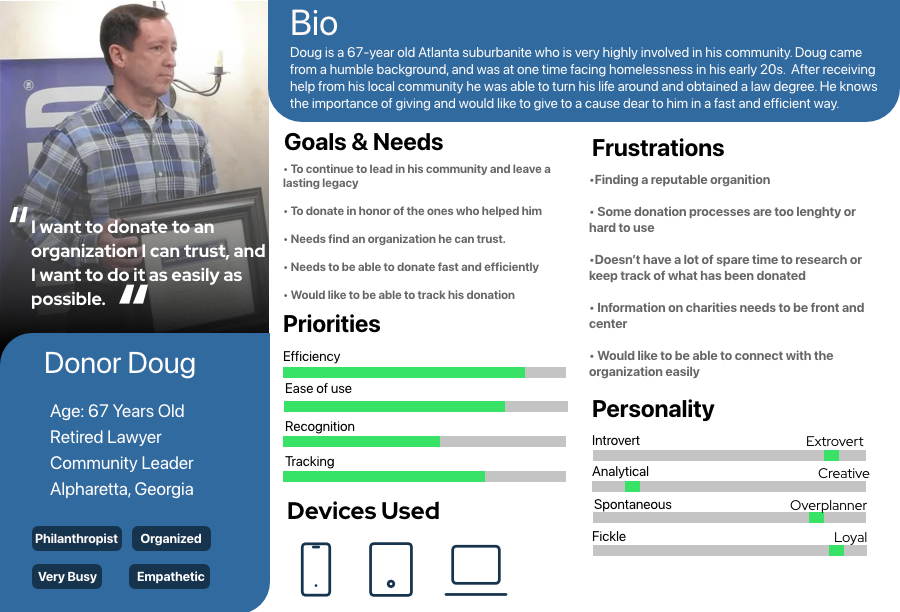
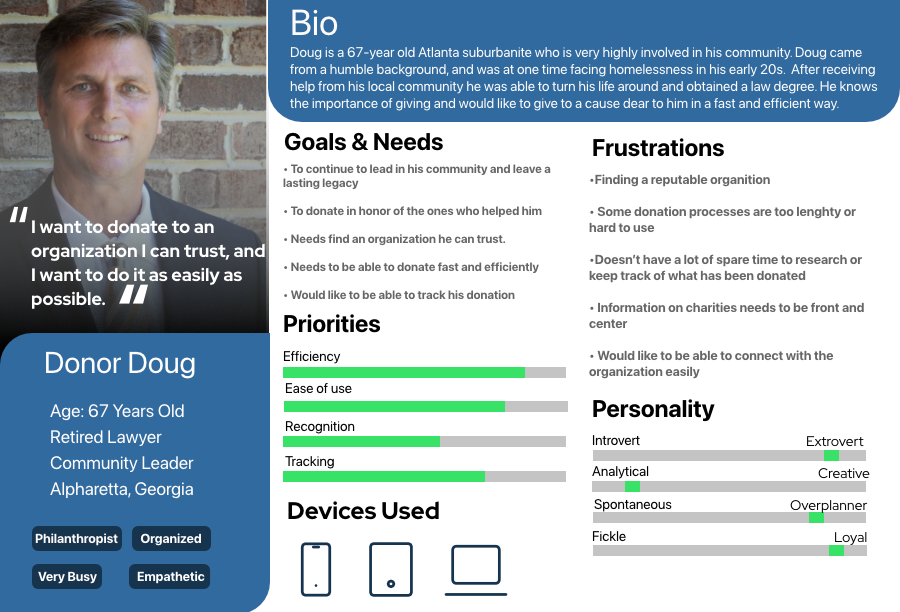
Personas
I updated the proto-personas section and the persona used.

Changed region(s): [[0.0, 0.0, 0.3111, 0.5278]]

diff --git a/case_studies.html b/case_studies.html
@@ -52,7 +52,7 @@
 <!--introductary section giving a basic overview of my ux experience-->
    <section class="Introduction"> 
     <div class="w3-container w3-content w3-center w3-padding-64 w3-text-dark-blue">
-      <h1 class="w3-wide w3-xxxlarge">Case Studies</h1>
+      <h1 class="w3-wide w3-text-blue w3-xxxlarge">Case Studies</h1>
       <p class="w3-opacity"><i>UX Writing | Research | Testing</i></p>
       <p class="w3-justify">This section of my portfolio is dedicated to the UX projects I've been apart of. 
         The below case studies highlight my experience with information architecture and structuring content. </p>
@@ -67,7 +67,7 @@
   <div class="w3-text-dark-blue w3-off-white" id="homeStretch">
     <!--Introducing the project - the problem statement and my role-->
     <div class="w3-container w3-content w3-padding">
-    <h1>HomeStretch - Non-profit Redesign</h1>
+    <h1 class="w3-text-blue">HomeStretch - Non-profit Redesign</h1>
     <p class="w3-container w3-content w3-justify w3-padding">HomeStretch is an organization that provides economic relief to families in financial distress. 
       They initially developed its site as a catch-all solution for every possible thing any user may need.</p>
     <p class="w3-container w3-content w3-justify w3-padding"> I joined an agile UX design team as a content strategist and information architecture to redesign the non-profit's website.</p>
@@ -77,8 +77,15 @@
     <img style="width: 100%;" src="assets/CaseStudies/homeStretch/homeStretch-hero.png">
     <!--Start of Definition-->
     <div class="w3-container w3-content w3-padding">
-      <h2>Definition</h2>
-      <hr>
+      <h2 class="w3-text-blue">Definition Stage</h2>
+      <p class="w3-xlarge w3-text-blue">The Results</p>
+      <ul>
+        <li>Established scope of work</li>
+        <li>Drafted proto-personas</li>
+        <li>Defined a value propsition, problem statement, and UX Hypothesis</li>
+      </ul>
+     <hr>
+
        <!--<div class="w3-panel w3-leftbar w3-white w3-xlarge w3-serif w3-text-dark-blue dropShadow w3-padding 23 w3-margin">
         <p>"85% of funding comes from individual donors and civic/faith organizations. The rest is from corporate donations and a few foundation grants. 
           Over 2020, we've had trouble gaining in person donations through our fundraising events, so this year more and more donations are coming through our website"</p>
@@ -87,7 +94,7 @@
       <br>--> 
    
       <div class="w3-row w3-padding">
-        
+        <p class="w3-xlarge w3-text-blue">The Process</p>
         <div class="w3-half w3-container">
           <div class="w3-row">
             <div class="w3-container w3-white dropShadow w3-text-blue">
@@ -103,49 +110,67 @@
             </div>
           </div>
         </div>
-
-      </div> 
+      </div>
+      <br>
+      <!--Proto-personas-->
+      <div class="w3-container w3-content w3-margin">
+        <p>The team devleoped proto-personas based on exsiting research collected by HomeStreach. The users where broken into three personas: 
+          the donor persona, The recipient persona persona, and the volunteer persona. 
+        </p>   
+      </div>
       <div class="w3-row w3-margin">
          <!--Rebbeca-->
         <div class="w3-third w3-container">
           <div class="w3-row">
-            <h3>Rebbeca</h3>
             <div class="w3-container">
-              <img class="w3-image w3-round w3-mobile" width="600" height="600" src="assets/CaseStudies/homeStretch/recipientRita.jpg">
+              <h3>Rita the recipient</h3>
+              <img class="w3-image w3-mobile personaImages" width="800" height="800" src="assets/CaseStudies/homeStretch/recipientRita.png">
+              <p class="w3-center"><i>"I would love to spend more time with my kids in a safe home."</i></p>
             </div>
           </div>
         </div>
         <!--Doug-->
         <div class="w3-third w3-container">
           <div class="w3-row">
-            <h3>Doug the donor</h3>
             <div class="w3-container">
-              <img class="w3-image w3-round w3-mobile" width="600" height="600" src="assets/CaseStudies/homeStretch/donorDoug.png">
+              <h3>Doug the donor</h3>
+              <img class="w3-image w3-mobile personaImages" width="800" height="800" src="assets/CaseStudies/homeStretch/donorDoug.png">
+              <p class="w3-center"><i>"I want to want to give back in a meaningful way."</i></p>
             </div>
           </div>
         </div>
         <!--Valerie-->
         <div class="w3-third w3-container">
           <div class="w3-row">
-            <h3>Valerie the volunteer</h3>
             <div class="w3-container">
-              <img class="w3-image w3-round w3-mobile" width="600" height="600" src="assets/CaseStudies/homeStretch/volunteerValerie.jpg">
+              <h3>Valerie the volunteer</h3>
+              <img class="w3-image w3-mobile personaImages" width="800" height="800" src="assets/CaseStudies/homeStretch/volunteerValerie.png">
+              <p class="w3-center"><i>"I want to be the change in my community."</i></p>
             </div>
           </div>
         </div>
         
       </div> 
 
-      <br>
+      <hr>
+      <p class="w3-xlarge w3-text-blue">The Nitty Gritty</p>
       <p>You can read more on the team's outcome from this phase straight from our google slide deck by follow the button below.</p>
       <!--Link to Slides-->
       <a href="https://docs.google.com/presentation/d/e/2PACX-1vSOJb8vQbNYCUe0q9QdHlHxIieK5KEJZpT7-wQh6IQdGMnzgS2qxkUijbnaRu1JiFUiT4FqwFz-xhk4/pub?start=false&loop=false&delayms=3000" target="_blank"><button class="w3-btn">View The Slides</button></a>
     </div>
     <!--End of Definition-->
-
+    <hr>
     <!--Start of Research-->
     <div class="w3-container w3-content w3-padding">
       <h2>Research</h2>
+      <p class="w3-xlarge w3-text-blue">The Results</p>
+      <ul>
+        <li></li>
+        <li></li>
+        <li></li>
+      </ul>
+     <hr>
+
       <p class="w3-container w3-content w3-justify w3-padding">Conducting initial user research, the design team uncovered three different personas. After speaking with key stakeholders, the team took the direction to optimize the site for one of the three personas - the donor. </p>
       <img class="w3-container w3-image w3-margin" src="assets/CaseStudies/homeStretch/Persona.png" alt="Donor User Persona">
       <br>

diff --git a/css/Portfolio.css b/css/Portfolio.css
@@ -32,6 +32,12 @@
   box-shadow: 10px 10px #0d1163;
 }
 
+/* Making proto-persona images circular*/
+.personaImages{
+  border-radius: 50%;
+}
+
+
 /* Turn off parallax scrolling for tablets and phones */
 @media only screen and (max-device-width: 1600px) {
   .hero {
